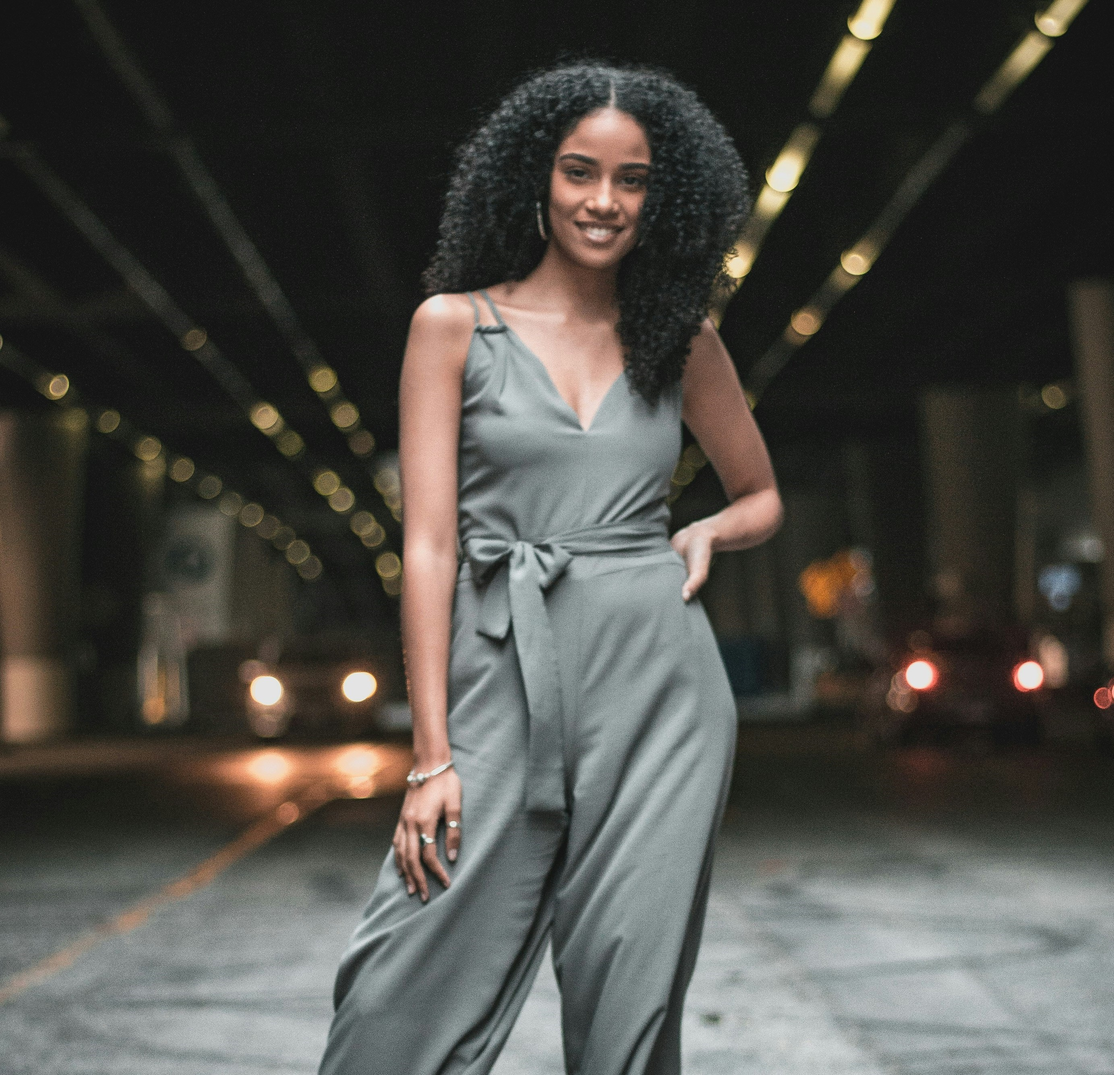
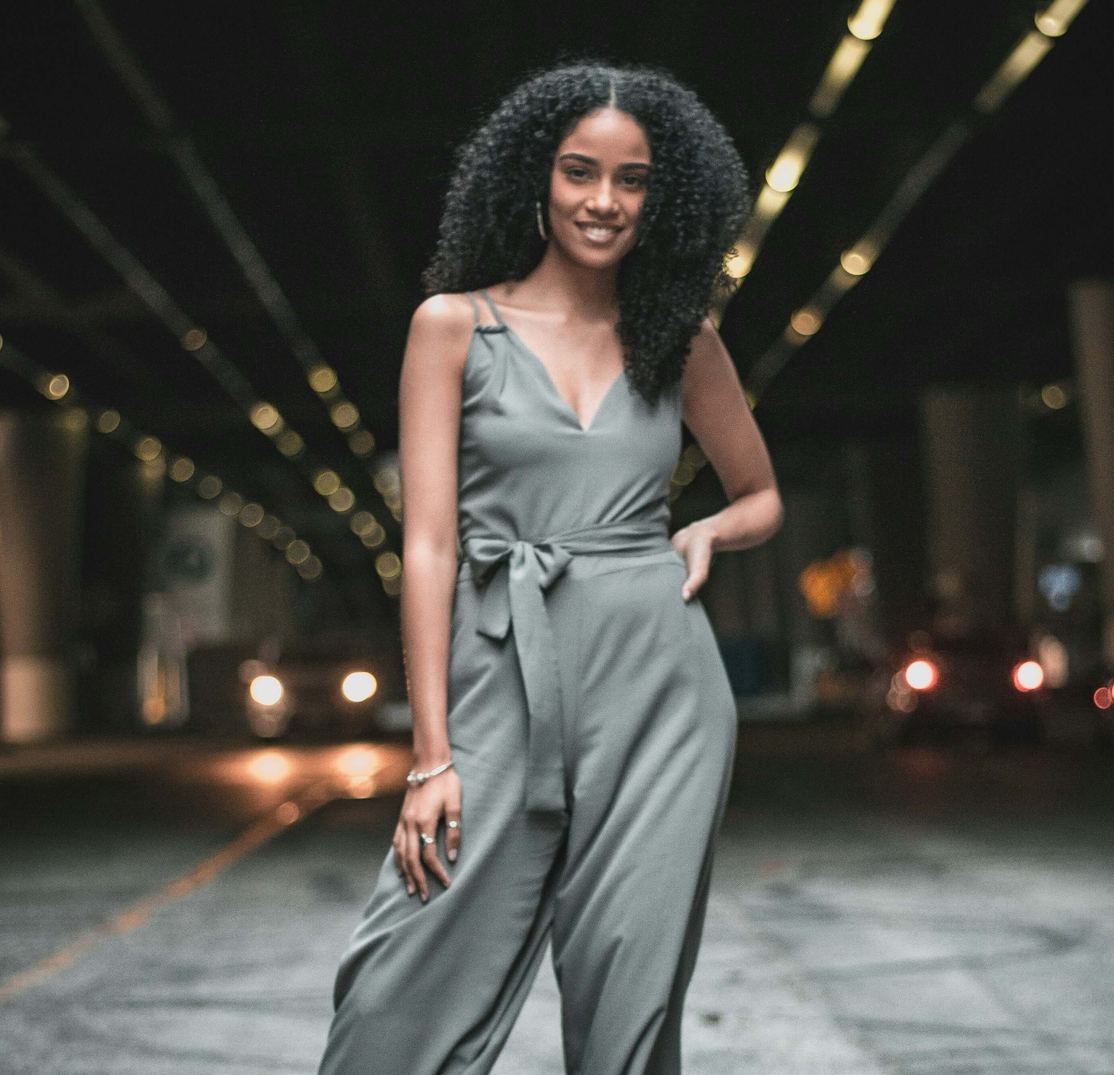
compress image

diff --git a/src/components/Hero.tsx b/src/components/Hero.tsx
@@ -101,53 +101,53 @@ export const Header76Defaults: Header76Props = {
   images: [
     {
       src: Images.img_1,
-      alt: "Relume placeholder image 1",
+      alt: "Placeholder image",
     },
     {
       src: Images.img_2_1,
-      alt: "Relume placeholder image 2",
+      alt: "Placeholder image",
     },
     {
       src: Images.img_26,
-      alt: "Relume placeholder image 3",
+      alt: "Placeholder image",
     },
     {
       src: Images.img_15,
-      alt: "Relume placeholder image 4",
+      alt: "Placeholder image",
     },
     {
       src: Images.img_17,
-      alt: "Relume placeholder image 5",
+      alt: "Placeholder image",
     },
     {
       src: Images.img_20,
-      alt: "Relume placeholder image 6",
+      alt: "Placeholder image",
     },
   ],
   images1: [
     {
       src: Images.img_31,
-      alt: "Relume placeholder image 1",
+      alt: "Placeholder image",
     },
     {
       src: Images.img_32,
-      alt: "Relume placeholder image 2",
+      alt: "Placeholder image",
     },
     {
       src: Images.img_33,
-      alt: "Relume placeholder image 3",
+      alt: "Placeholder image",
     },
     {
       src: Images.img_34,
-      alt: "Relume placeholder image 4",
+      alt: "Placeholder image",
     },
     {
       src: Images.img_35,
-      alt: "Relume placeholder image 5",
+      alt: "Placeholder image",
     },
     {
       src: Images.img_36,
-      alt: "Relume placeholder image 6",
+      alt: "Placeholder image",
     },
   ],
 };

diff --git a/src/pages/admin pages/AdminSendEmailToSubscribers.tsx b/src/pages/admin pages/AdminSendEmailToSubscribers.tsx
@@ -47,14 +47,14 @@ const AdminSendEmailToSubscribers: React.FC = () => {
           Send email to subscribers
         </h3>
 
-        <div>
+        <div className="poppins">
           <div className="mb-4">
             <label className="block text-base font-medium mb-4">Subject:</label>
             <input
               type="text"
               value={subject}
               onChange={(e) => setSubject(e.target.value)}
-              className="border rounded w-full px-3 py-2 poppins"
+              className="border rounded w-full px-3 py-2 outline-none"
             />
           </div>
           <div className="mb-4">
@@ -62,7 +62,7 @@ const AdminSendEmailToSubscribers: React.FC = () => {
             <textarea
               value={message}
               onChange={(e) => setMessage(e.target.value)}
-              className="border rounded w-full px-3 py-2 ring-0 poppins"
+              className="border rounded w-full px-3 py-2 outline-none"
               rows={15}
             ></textarea>
           </div>

diff --git a/src/components/TrendingSlider.tsx b/src/components/TrendingSlider.tsx
@@ -105,19 +105,19 @@ export const Gallery21Defaults: Gallery21Props = {
   images: [
     {
       src: "https://d22po4pjz3o32e.cloudfront.net/placeholder-image.svg",
-      alt: "Relume placeholder image 1",
+      alt: "Placeholder image",
     },
     {
       src: "https://d22po4pjz3o32e.cloudfront.net/placeholder-image.svg",
-      alt: "Relume placeholder image 2",
+      alt: "Placeholder image",
     },
     {
       src: "https://d22po4pjz3o32e.cloudfront.net/placeholder-image.svg",
-      alt: "Relume placeholder image 3",
+      alt: "Placeholder image",
     },
     {
       src: "https://d22po4pjz3o32e.cloudfront.net/placeholder-image.svg",
-      alt: "Relume placeholder image 4",
+      alt: "Placeholder image",
     },
   ],
 };
